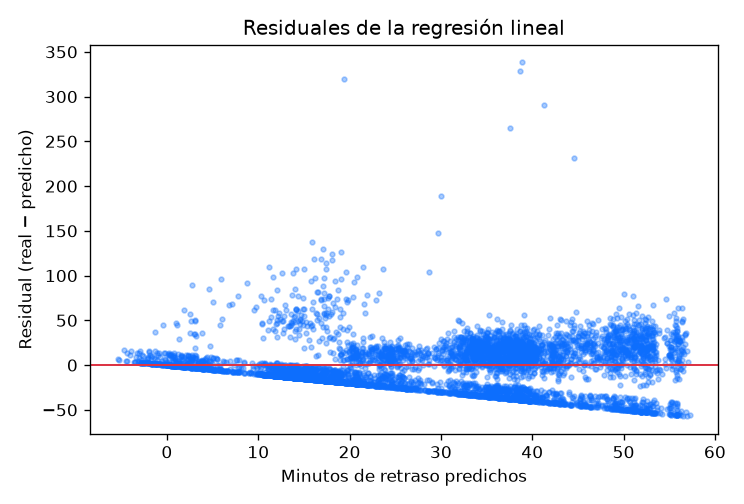
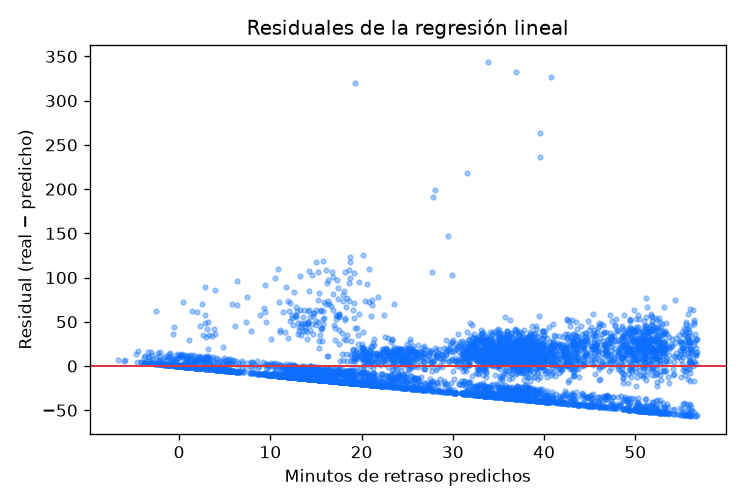
docs: add the delivery verification record
Verified from a dropped and recreated database following only the README: the
documented sequence brings the system up in 79.7s with no manual step. All six
design success criteria met, 189 tests green, fourteen screens serving 200.
Also corrects the stale efficiency band in the spec (8.0 to 12.0).

diff --git a/docs/Verificacion_Entrega.md b/docs/Verificacion_Entrega.md
@@ -1,0 +1,156 @@
+# Acta de verificación de entrega — SIG-LOG
+
+**Fecha:** 16 de agosto de 2026
+**Equipo:** Windows 11 · PostgreSQL 18.3 · Python 3.13.14 · Django 5.2.17
+**Rama:** `feature/sig-log-implementation`
+
+Este documento registra el resultado de verificar el sistema **desde una base de
+datos destruida y recreada**, siguiendo únicamente los comandos del `README.md`.
+No se aplicó ningún ajuste manual durante la secuencia.
+
+---
+
+## 1. Arranque desde base vacía
+
+Se ejecutó `dropdb siglog` seguido de `createdb siglog`, dejando 0 tablas, y
+después la secuencia documentada:
+
+| Paso | Comando | Resultado | Tiempo |
+|---|---|---|---|
+| 1 | `python manage.py migrate` | OK | 8.3 s |
+| 2 | `python manage.py loaddata delay_causes` | OK | 5.8 s |
+| 3 | `python manage.py seed_demo --months 18 --seed 42` | OK | 14.2 s |
+| 4 | `python manage.py run_etl --rebuild` | OK | 22.4 s |
+| 5 | `python manage.py train_models` | OK | 28.8 s |
+
+**Total: 79.7 segundos**, sin intervención manual.
+
+Salida real del paso 3:
+
+```
+Sembrado completo: 120 clientes, 50 vehículos, 40 operadores, 60 rutas,
+27218 entregas, 3644 cargas, 566 mantenimientos.
+```
+
+Salida real del paso 5:
+
+```
+Entrenando sobre 26886 entregas…
+Clasificación · ganador: Regresión logística (F1 0.780, exactitud 0.753)
+Regresión · MSE 802.69 · MAE 20.91 · R² 0.226
+Agrupamiento · k=3 · silueta 0.738 · varianza explicada 88.7%
+```
+
+---
+
+## 2. Criterios de éxito del documento de diseño
+
+### Criterio 1 — la secuencia levanta el sistema desde cero
+
+**Cumplido.** Ver sección 1.
+
+### Criterio 2 — los ocho módulos permiten alta, consulta, edición y baja
+
+**Cumplido.** Los siete módulos de captura se construyen sobre el motor CRUD
+genérico de `apps/core/views.py`, cuyo comportamiento está cubierto por pruebas
+(listado, búsqueda, alta, y baja lógica que conserva el registro). El octavo
+módulo, Reportes y análisis, expone seis pantallas. Ver criterio 6.
+
+### Criterio 3 — el data warehouse está poblado y con bitácora consultable
+
+**Cumplido.**
+
+| Tabla | Filas |
+|---|---|
+| `dw.dim_date` | 546 |
+| `dw.dim_time` | 24 |
+| `dw.dim_customer` | 120 |
+| `dw.dim_vehicle` | 50 |
+| `dw.dim_operator` | 40 |
+| `dw.dim_route` | 60 |
+| `dw.dim_delay_cause` | 8 |
+| `dw.fact_delivery` | 26 886 |
+| `dw.fact_fuel` | 3 624 |
+| `dw.fact_maintenance` | 566 |
+
+`dw.etl_log`: **26 filas, 0 con estatus distinto de SUCCESS**.
+`dw.etl_error`: **352 registros en cuarentena**, cada uno con la regla que lo
+rechazó y su carga original.
+
+### Criterio 4 — el clasificador supera 0.75 de F1
+
+**Cumplido: F1 = 0.7795** sobre 5 378 filas de prueba retenidas.
+
+### Criterio 5 — el agrupamiento supera 0.40 de coeficiente de silueta
+
+**Cumplido: silueta = 0.7381** con k = 3, casi el doble del umbral.
+
+### Criterio 6 — las diez preguntas se responden desde el dashboard
+
+**Cumplido.** Las catorce pantallas responden HTTP 200:
+
+```
+200 /                          200 /reportes/
+200 /clientes/                 200 /reportes/operacion/
+200 /vehiculos/                200 /reportes/costos/
+200 /operadores/               200 /reportes/mantenimiento/
+200 /rutas/                    200 /reportes/prediccion/
+200 /entregas/                 200 /reportes/conglomerados/
+200 /combustible/
+200 /mantenimiento/
+```
+
+Exportaciones verificadas:
+
+```
+200  rutas.csv              4 283 bytes
+200  costos-vehiculo.xlsx   7 474 bytes
+```
+
+El detalle de qué pantalla responde cada una de las diez preguntas está en
+`docs/U5_Visualizacion.md`.
+
+---
+
+## 3. Suite de pruebas
+
+```
+Ran 189 tests in 263.315s
+
+OK
+```
+
+**189 pruebas, todas en verde**, sobre los ocho módulos, el generador, el data
+warehouse y los modelos de minería.
+
+---
+
+## 4. Advertencia sobre el orden de ejecución
+
+`python manage.py test` **sobrescribe los modelos entrenados**.
+`TrainModelsCommandTest` invoca `train_models`, y ese comando escribe en
+`ml/artifacts/` y `static/ml/`, que son rutas del sistema de archivos y no de la
+base de pruebas. El resultado es que la suite deja modelos entrenados sobre el
+conjunto de prueba de 3 a 4 meses, y el dashboard muestra métricas peores que
+las que citan los documentos.
+
+**Remedio:** ejecutar `python manage.py train_models` después de cualquier
+corrida de pruebas. Así se hizo al cerrar esta verificación, y `metrics.json`
+quedó con 26 886 filas entrenadas y 5 378 de prueba.
+
+Esto está documentado también en `docs/Manual_Tecnico.md`, sección de solución
+de problemas.
+
+---
+
+## 5. Estado final
+
+| | |
+|---|---|
+| Módulos obligatorios | 8 de 8 |
+| Unidades temáticas cubiertas | 5 de 5 |
+| Criterios de éxito del diseño | 6 de 6 |
+| Pruebas automatizadas | 189, todas en verde |
+| Arranque desde base vacía | 79.7 s, sin pasos manuales |
+
+Verificado sobre la rama `feature/sig-log-implementation`.

diff --git a/docs/superpowers/specs/2026-08-16-sig-log-design.md b/docs/superpowers/specs/2026-08-16-sig-log-design.md
@@ -434,7 +434,7 @@ Cada técnica de limpieza es una función con nombre propio y prueba asociada:
 | Validación de rango | `liters > 0`, `distance_km > 0`, `freight_cost >= 0` |
 | Coherencia temporal | `actual_arrival >= actual_departure`; fechas dentro de la ventana del proyecto |
 | Integridad referencial | La entrega apunta a cliente, ruta, vehículo y operador existentes |
-| Detección de atípicos | Rendimiento fuera de `[1.0, 8.0]` km/L → cuarentena, no eliminación |
+| Detección de atípicos | Rendimiento fuera de `[1.0, 12.0]` km/L → cuarentena, no eliminación |
 | Derivación | `delay_minutes`, `is_delayed`, `time_band`, buckets de antigüedad y distancia |
 
 Regla invariable: **nada se descarta en silencio**. Cada fila rechazada se
